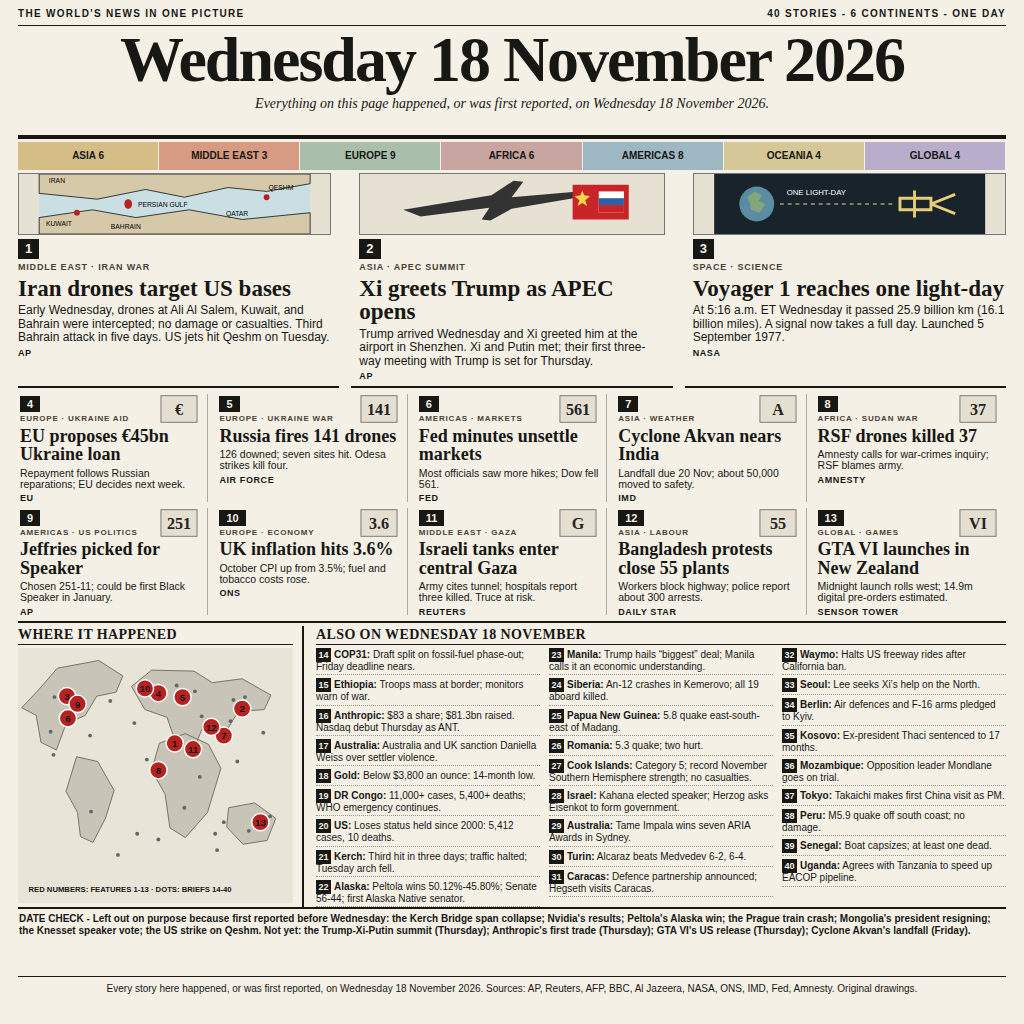
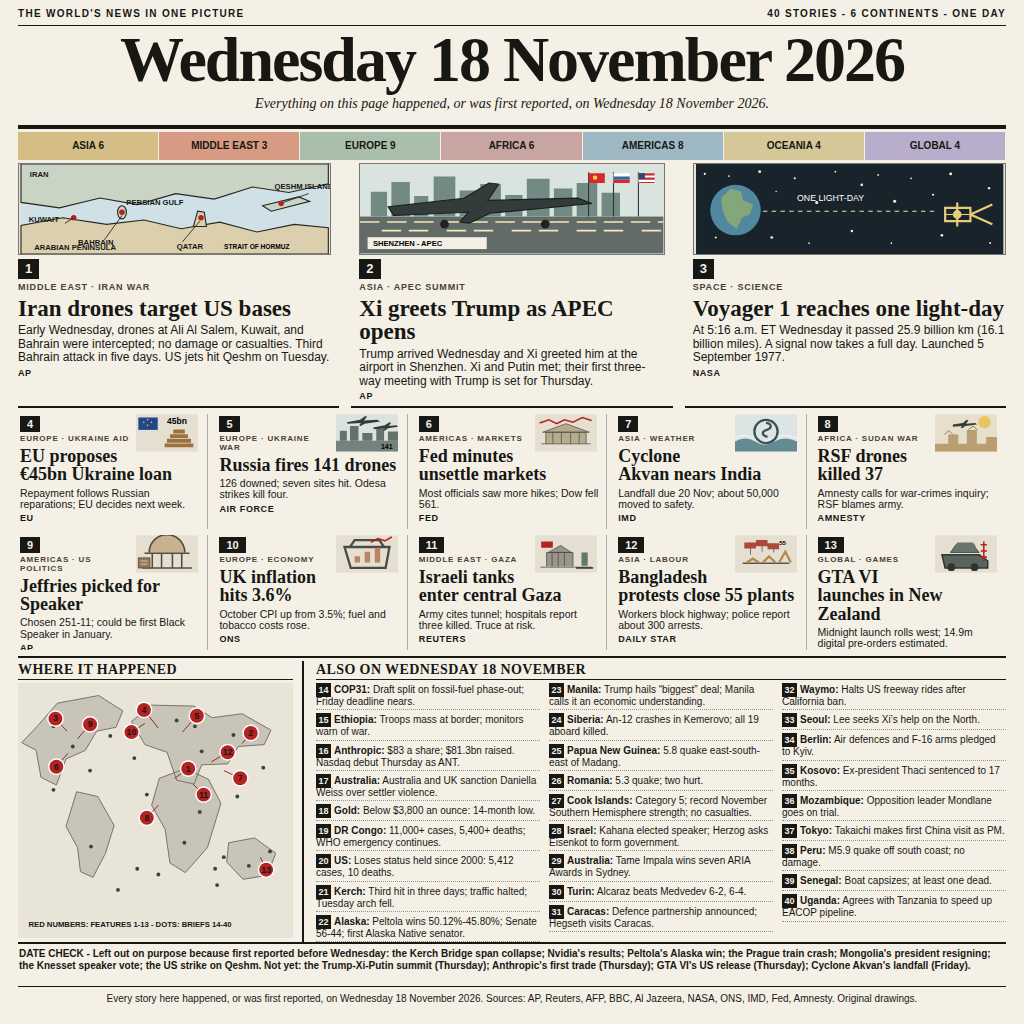
Polish v3 news image illustrations

diff --git a/frontpage.html b/frontpage.html
@@ -1,21 +1,32 @@
 <!doctype html><html lang="en"><head><meta charset="utf-8"><meta name="viewport" content="width=1024, initial-scale=1"><style>
-*{box-sizing:border-box}html,body{margin:0;width:1024px;height:1024px;overflow:hidden;background:#f4f0e6;color:#171714}body{padding:8px 18px;font-family:Arial,Helvetica,sans-serif}.page{height:1008px;display:grid;grid-template-rows:18px 110px 28px 215px 232px 278px 70px 35px;gap:3px}.topline{font-size:10px;font-weight:bold;letter-spacing:1.3px;display:flex;justify-content:space-between;border-bottom:1px solid #171714}.mast{text-align:center;border-bottom:4px solid #171714;position:relative;padding-top:1px}.mast h1{font: bold 64px/.95 Georgia,'Times New Roman',serif;letter-spacing:-2px;margin:0}.mast p{font:italic 14px/1.2 Georgia,serif;margin:5px 0}.counts{position:absolute;right:0;top:5px;font-size:10px;font-weight:bold}.bar{display:flex;font-size:10px;font-weight:bold;text-align:center;line-height:28px;color:#171714}.bar span{flex:1;border-right:1px solid #f4f0e6}.asia{background:#d5be86}.me{background:#d79a82}.eu{background:#a9bfab}.af{background:#c8a5a0}.am{background:#9db8c2}.oc{background:#d5c797}.gl{background:#b8adca}.leadrow{display:grid;grid-template-columns:repeat(3,1fr);gap:12px}.lead{border-bottom:2px solid #171714;padding:0 8px 5px;min-width:0;overflow:hidden}.lead:first-child{padding-left:0}.lead:last-child{padding-right:0}.ill{height:62px;width:100%;display:block;background:#e7e1d3;border:1px solid #777}.badge{display:inline-block;background:#171714;color:#f4f0e6;font:bold 13px/20px Arial;padding:0 7px;margin-top:4px}.tag{font:bold 9px/1.1 Arial;letter-spacing:.8px;margin:4px 0;color:#4b4035}.lead h2{font:bold 23px/1.02 Georgia,serif;margin:2px 0 4px}.lead p{font:12px/1.13 Arial;margin:0}.source{font:bold 9px/1 Arial;letter-spacing:.6px;margin-top:4px}.featuregrid{display:grid;grid-template-columns:repeat(5,1fr);grid-template-rows:1fr 1fr;gap:6px 9px;border-bottom:2px solid #171714;padding:3px 0 6px}.feature{position:relative;min-width:0;border-right:1px solid #aaa;padding:0 7px 0 2px;overflow:hidden}.feature:nth-child(5n){border-right:0}.feature .badge{font-size:11px;line-height:16px;margin:0}.feature svg{width:38px;height:30px;float:right;margin:0 2px 2px 3px}.feature .tag{font-size:8px;margin:3px 0}.feature h3{font:bold 18px/1.02 Georgia,serif;margin:2px 0 4px}.feature p{font:10.5px/1.08 Arial;margin:0}.bottom{display:grid;grid-template-columns:286px 1fr;gap:12px;min-height:0}.mapbox{border-right:2px solid #171714;padding-right:9px}.mapbox h2,.briefs h2{font:bold 14px/18px Georgia,serif;letter-spacing:.4px;margin:0 0 3px;border-bottom:1px solid #171714}.world{width:100%;height:255px;display:block;background:#e8e4d8}.briefs{min-width:0}.cols{display:grid;grid-template-columns:repeat(3,1fr);gap:9px}.briefcol{display:flex;flex-direction:column;gap:3px}.item{font:10px/1.03 Arial;border-bottom:1px dotted #9b9588;padding:0 0 2px;min-height:0}.item b{font:bold 10px/1 Arial}.item .n{display:inline-block;background:#171714;color:#f4f0e6;font:bold 9px/14px Arial;width:15px;text-align:center;margin-right:3px}.datecheck{font:bold 10px/1.2 Arial;border-top:2px solid #171714;border-bottom:1px solid #171714;padding:4px 1px}.footer{font:10px/1.2 Arial;text-align:center;padding-top:3px}.smallcaps{font-weight:bold;letter-spacing:.5px}.map text{font-family:Arial,sans-serif;font-weight:bold;fill:#171714}
+*{box-sizing:border-box}html,body{margin:0;width:1024px;height:1024px;overflow:hidden;background:#f4f0e6;color:#171714}body{padding:8px 18px;font-family:Arial,Helvetica,sans-serif}.page{height:1008px;display:grid;grid-template-rows:18px 100px 28px 245px 247px 278px 45px 25px;gap:3px}.topline{font-size:10px;font-weight:bold;letter-spacing:1.3px;display:flex;justify-content:space-between;border-bottom:1px solid #171714}.mast{text-align:center;border-bottom:4px solid #171714;position:relative;padding-top:1px}.mast h1{font: bold 64px/.95 Georgia,'Times New Roman',serif;letter-spacing:-2px;margin:0}.mast p{font:italic 14px/1.2 Georgia,serif;margin:5px 0}.counts{position:absolute;right:0;top:5px;font-size:10px;font-weight:bold}.bar{display:flex;font-size:10px;font-weight:bold;text-align:center;line-height:28px;color:#171714}.bar span{flex:1;border-right:1px solid #f4f0e6}.asia{background:#d5be86}.me{background:#d79a82}.eu{background:#a9bfab}.af{background:#c8a5a0}.am{background:#9db8c2}.oc{background:#d5c797}.gl{background:#b8adca}.leadrow{display:grid;grid-template-columns:repeat(3,1fr);gap:12px}.lead{border-bottom:2px solid #171714;padding:0 8px 5px;min-width:0;overflow:hidden}.lead:first-child{padding-left:0}.lead:last-child{padding-right:0}.ill{height:92px;width:100%;display:block;background:#e7e1d3;border:1px solid #777}.badge{display:inline-block;background:#171714;color:#f4f0e6;font:bold 13px/20px Arial;padding:0 7px;margin-top:4px}.tag{font:bold 9px/1.1 Arial;letter-spacing:.8px;margin:4px 0;color:#4b4035}.lead h2{font:bold 23px/1.02 Georgia,serif;margin:2px 0 4px}.lead p{font:12px/1.13 Arial;margin:0}.source{font:bold 9px/1 Arial;letter-spacing:.6px;margin-top:4px}.featuregrid{display:grid;grid-template-columns:repeat(5,1fr);grid-template-rows:1fr 1fr;gap:6px 9px;border-bottom:2px solid #171714;padding:3px 0 6px}.feature{position:relative;min-width:0;border-right:1px solid #aaa;padding:0 7px 0 2px;overflow:hidden}.feature:nth-child(5n){border-right:0}.feature .badge{font-size:11px;line-height:16px;margin:0}.feature svg{width:62px;height:38px;float:right;margin:0 2px 2px 3px}.feature .tag{font-size:8px;margin:3px 0}.feature h3{font:bold 18px/1.02 Georgia,serif;margin:2px 0 4px}.feature p{font:10.5px/1.08 Arial;margin:0}.bottom{display:grid;grid-template-columns:286px 1fr;gap:12px;min-height:0}.mapbox{border-right:2px solid #171714;padding-right:9px}.mapbox h2,.briefs h2{font:bold 14px/18px Georgia,serif;letter-spacing:.4px;margin:0 0 3px;border-bottom:1px solid #171714}.world{width:100%;height:255px;display:block;background:#e8e4d8}.briefs{min-width:0}.cols{display:grid;grid-template-columns:repeat(3,1fr);gap:9px}.briefcol{display:flex;flex-direction:column;gap:3px}.item{font:10px/1.03 Arial;border-bottom:1px dotted #9b9588;padding:0 0 2px;min-height:0}.item b{font:bold 10px/1 Arial}.item .n{display:inline-block;background:#171714;color:#f4f0e6;font:bold 9px/14px Arial;width:15px;text-align:center;margin-right:3px}.datecheck{font:bold 10px/1.2 Arial;border-top:2px solid #171714;border-bottom:1px solid #171714;padding:4px 1px}.footer{font:10px/1.2 Arial;text-align:center;padding-top:3px}.smallcaps{font-weight:bold;letter-spacing:.5px}.map text{font-family:Arial,sans-serif;font-weight:bold;fill:#171714}
 </style></head><body><main class="page">
 <div class="topline"><span>THE WORLD'S NEWS IN ONE PICTURE</span><span>40 STORIES - 6 CONTINENTS - ONE DAY</span></div>
 <header class="mast"><h1>Wednesday 18 November 2026</h1><p>Everything on this page happened, or was first reported, on Wednesday 18 November 2026.</p></header>
 <div class="bar"><span class="asia">ASIA 6</span><span class="me">MIDDLE EAST 3</span><span class="eu">EUROPE 9</span><span class="af">AFRICA 6</span><span class="am">AMERICAS 8</span><span class="oc">OCEANIA 4</span><span class="gl">GLOBAL 4</span></div>
 <section class="leadrow">
-<article class="lead"><svg class="ill" viewBox="0 0 280 62" aria-label="Persian Gulf diagram"><rect width="280" height="62" fill="#c9dfe4"/><path d="M0 0h280v10l-45 8-40-4-45 10-40-8-50 10L0 20zm0 62V45l55-8 45 8 55-8 55 10 70-7v22z" fill="#d5c9aa" stroke="#333"/><ellipse cx="92" cy="31" rx="4" ry="5" fill="#b52222"/><circle cx="39" cy="40" r="3" fill="#b52222"/><circle cx="235" cy="24" r="3" fill="#b52222"/><text x="10" y="9" font-size="7">IRAN</text><text x="102" y="34" font-size="7">PERSIAN GULF</text><text x="7" y="54" font-size="7">KUWAIT</text><text x="74" y="57" font-size="7">BAHRAIN</text><text x="193" y="43" font-size="7">QATAR</text><text x="237" y="17" font-size="7">QESHM</text></svg><span class="badge">1</span><div class="tag">MIDDLE EAST · IRAN WAR</div><h2>Iran drones target US bases</h2><p>Early Wednesday, drones at Ali Al Salem, Kuwait, and Bahrain were intercepted; no damage or casualties. Third Bahrain attack in five days. US jets hit Qeshm on Tuesday.</p><div class="source">AP</div></article>
-<article class="lead"><svg class="ill" viewBox="0 0 280 62" aria-label="Plane and flags"><rect width="280" height="62" fill="#e7e1d3"/><path d="M28 37l91-15 23-15 10 1-12 16 69-6 13 4-82 14-22 12-9-1 8-12-71 9z" fill="#333"/><path d="M203 11h58v36h-58z" fill="#c92528"/><path d="M213 17l2 5 6 1-5 4 2 6-5-3-5 3 2-6-5-4 6-1z" fill="#f4d54c"/><path d="M230 18h26v22h-26z" fill="#fff"/><path d="M230 25h26v7h-26z" fill="#2861a5"/><path d="M230 32h26v8h-26z" fill="#c92528"/></svg><span class="badge">2</span><div class="tag">ASIA · APEC SUMMIT</div><h2>Xi greets Trump as APEC opens</h2><p>Trump arrived Wednesday and Xi greeted him at the airport in Shenzhen. Xi and Putin met; their first three-way meeting with Trump is set for Thursday.</p><div class="source">AP</div></article>
-<article class="lead"><svg class="ill" viewBox="0 0 280 62" aria-label="Earth and Voyager"><rect width="280" height="62" fill="#18232c"/><circle cx="44" cy="31" r="18" fill="#5b8ca2"/><path d="M34 24l8-6 7 4-3 6 7 3-6 9-9-3-1-7z" fill="#83a77b"/><path d="M68 31h120" stroke="#eee0ae" stroke-dasharray="4 4"/><path d="M192 25h32v12h-32zm15-8v28m17-14 25-10m-25 10 25 10" fill="none" stroke="#e7cc79" stroke-width="3"/><text x="75" y="22" font-size="8" fill="#fff">ONE LIGHT-DAY</text></svg><span class="badge">3</span><div class="tag">SPACE · SCIENCE</div><h2>Voyager 1 reaches one light-day</h2><p>At 5:16 a.m. ET Wednesday it passed 25.9 billion km (16.1 billion miles). A signal now takes a full day. Launched 5 September 1977.</p><div class="source">NASA</div></article>
+<article class="lead"><svg class="ill" viewBox="0 0 280 82" aria-label="Persian Gulf map"><rect width="280" height="82" fill="#cfe0e6"/><path d="M0 0H280V18L244 26 211 21 176 32 141 27 106 37 72 31 35 40 0 35Z" fill="#c9d4c5" stroke="#252622"/><path d="M0 82V56L38 49 78 55 112 51 146 59 181 53 215 62 249 55 280 58V82Z" fill="#dccfae" stroke="#252622"/><path d="M157 57l4-14 6 1 2 13z" fill="#dccfae" stroke="#252622"/><path d="M220 38l33-8 10 4-35 9z" fill="#c9d4c5" stroke="#252622"/><ellipse cx="92" cy="44" rx="4" ry="6" fill="#c9d4c5" stroke="#252622"/><g fill="#b52020"><circle cx="48" cy="49" r="2.5"/><circle cx="92" cy="44" r="2.5"/><circle cx="164" cy="49" r="2.5"/><circle cx="237" cy="36" r="2.5"/></g><g fill="none" stroke="#252622" stroke-width=".8"><path d="M40 54L48 49M76 69L92 47M147 71L163 52M262 27L239 35"/></g><g font-size="7" font-weight="bold" fill="#171714"><text x="8" y="12">IRAN</text><text x="96" y="37">PERSIAN GULF</text><text x="7" y="53">KUWAIT</text><text x="52" y="74">BAHRAIN</text><text x="142" y="77">QATAR</text><text x="231" y="23">QESHM ISLAND</text><text x="12" y="78">ARABIAN PENINSULA</text></g><text x="185" y="77" font-size="6" font-weight="bold">STRAIT OF HORMUZ</text></svg><span class="badge">1</span><div class="tag">MIDDLE EAST · IRAN WAR</div><h2>Iran drones target US bases</h2><p>Early Wednesday, drones at Ali Al Salem, Kuwait, and Bahrain were intercepted; no damage or casualties. Third Bahrain attack in five days. US jets hit Qeshm on Tuesday.</p><div class="source">AP</div></article>
+<article class="lead"><svg class="ill" viewBox="0 0 280 82" aria-label="Shenzhen airport scene"><rect width="280" height="82" fill="#d9e4df"/><rect y="48" width="280" height="34" fill="#626b68"/><path d="M0 53h280M20 61h44m16 0h44m16 0h44m16 0h44m16 0h44" stroke="#f4e8b7" stroke-width="1.5" stroke-dasharray="18 7"/><g fill="#728984"><path d="M10 48V25h15v23zm19 0V16h17v32zm21 0V29h13v19zm18 0V11h20v37zm24 0V24h15v24zm19 0V18h19v30zm23 0V28h16v20zm20 0V13h21v35zm25 0V22h17v26zm21 0V17h19v31zm23 0V26h17v22z"/></g><g stroke="#333" stroke-width="1"><path d="M211 48V7m23 41V7m23 41V7"/></g><g><rect x="211" y="8" width="15" height="9" fill="#d8272f"/><circle cx="217" cy="12" r="2" fill="#f5d74a"/><rect x="234" y="8" width="15" height="9" fill="#fff"/><rect x="234" y="11" width="15" height="3" fill="#3266a5"/><rect x="234" y="14" width="15" height="3" fill="#d8272f"/><rect x="257" y="8" width="15" height="9" fill="#fff"/><path d="M257 8h15v2h-15zm0 4h15v2h-15zm0 4h15v1h-15" fill="#bf3035"/><path d="M257 8h6v5h-6z" fill="#294a77"/></g><path d="M26 39l70-8 23-14 9 1-10 15 83-2 13 5-94 9-19 9-9-1 8-9-69 3z" fill="#343b3b" stroke="#172020"/><circle cx="78" cy="55" r="4" fill="#222"/><circle cx="171" cy="55" r="4" fill="#222"/><rect x="7" y="67" width="110" height="11" fill="#f4f0e6"/><text x="12" y="75" font-size="7" font-weight="bold">SHENZHEN - APEC</text></svg><span class="badge">2</span><div class="tag">ASIA · APEC SUMMIT</div><h2>Xi greets Trump as APEC opens</h2><p>Trump arrived Wednesday and Xi greeted him at the airport in Shenzhen. Xi and Putin met; their first three-way meeting with Trump is set for Thursday.</p><div class="source">AP</div></article>
+<article class="lead"><svg class="ill" viewBox="0 0 280 82" aria-label="Voyager probe and Earth"><rect width="280" height="82" fill="#18232c"/><g fill="#fff1cb"><circle cx="8" cy="9" r="1"/><circle cx="21" cy="28" r="1.5"/><circle cx="30" cy="11" r=".8"/><circle cx="58" cy="7" r="1.3"/><circle cx="73" cy="25" r=".7"/><circle cx="90" cy="13" r="1"/><circle cx="110" cy="35" r="1.4"/><circle cx="127" cy="7" r=".8"/><circle cx="151" cy="19" r="1.2"/><circle cx="166" cy="10" r=".8"/><circle cx="181" cy="34" r="1.4"/><circle cx="196" cy="13" r=".8"/><circle cx="216" cy="28" r="1"/><circle cx="232" cy="9" r="1.3"/><circle cx="267" cy="22" r="1.1"/><circle cx="18" cy="67" r=".9"/><circle cx="69" cy="67" r="1.2"/><circle cx="103" cy="72" r=".8"/><circle cx="142" cy="61" r="1.1"/><circle cx="178" cy="72" r=".8"/><circle cx="224" cy="65" r="1.2"/><circle cx="268" cy="72" r=".9"/></g><circle cx="36" cy="42" r="23" fill="#5287a0"/><path d="M23 31l9-9 9 3 2 8 9 4-3 9-7 3-5 10-8-6-5-11z" fill="#83a77b"/><path d="M61 43H219" stroke="#eee0ae" stroke-dasharray="4 4"/><text x="92" y="34" font-size="8" fill="#fff">ONE LIGHT-DAY</text><g transform="translate(227 35)" stroke="#e7cc79" fill="none" stroke-width="2"><path d="M0 5h23v12H0zM11 0v22M23 11l20-9m-20 9 20 9"/><path d="M0 11h23" stroke-width="1"/><circle cx="11" cy="11" r="3" fill="#e7cc79"/></g></svg><span class="badge">3</span><div class="tag">SPACE · SCIENCE</div><h2>Voyager 1 reaches one light-day</h2><p>At 5:16 a.m. ET Wednesday it passed 25.9 billion km (16.1 billion miles). A signal now takes a full day. Launched 5 September 1977.</p><div class="source">NASA</div></article>
 </section>
 <section class="featuregrid" id="features"></section>
-<section class="bottom"><div class="mapbox"><h2>WHERE IT HAPPENED</h2><svg class="world map" viewBox="0 0 280 265" aria-label="World map with numbered feature pins"><rect width="280" height="265" fill="#e8e4d8"/><g fill="#c8c4b7" stroke="#756f64" stroke-width="1"><path d="M18 44l20-23 43-8 25 16-7 17-20 4-12 20-20 9-10 27-16-8-5-28-15-8zM58 113l22 5 17 30-9 29-13 25-13-6-3-25-12-22zM115 40l21-17 44 1 19 12 31-4 30 17-7 15-27 2-11 18-27 1-8 20-18-4-10-29-23-8zM144 99l27-10 24 11 13 25-14 46-23 26-16-10-5-35-14-25zM216 166l27-5 22 16-9 23-25 4-17-18z"/></g><g fill="#5b6b63"><circle cx="35" cy="51" r="2"/><circle cx="54" cy="66" r="2"/><circle cx="72" cy="91" r="2"/><circle cx="188" cy="71" r="2"/><circle cx="218" cy="76" r="2"/><circle cx="186" cy="134" r="2"/><circle cx="170" cy="166" r="2"/><circle cx="233" cy="51" r="2"/><circle cx="237" cy="190" r="2"/><circle cx="118" cy="78" r="2"/><circle cx="131" cy="116" r="2"/><circle cx="73" cy="170" r="2"/><circle cx="202" cy="193" r="2"/><circle cx="211" cy="181" r="2"/><circle cx="93" cy="55" r="2"/><circle cx="162" cy="39" r="2"/><circle cx="225" cy="118" r="2"/><circle cx="121" cy="193" r="2"/><circle cx="259" cy="175" r="2"/><circle cx="34" cy="111" r="2"/><circle cx="181" cy="45" r="2"/><circle cx="101" cy="215" r="2"/><circle cx="221" cy="54" r="2"/><circle cx="143" cy="199" r="2"/><circle cx="31" cy="87" r="2"/><circle cx="204" cy="210" r="2"/><circle cx="252" cy="88" r="2"/></g><g font-size="10" text-anchor="middle"><g fill="#b52222" stroke="#fff" stroke-width="1.5"><circle cx="160" cy="99" r="9"/><circle cx="230" cy="63" r="9"/><circle cx="48" cy="50" r="9"/><circle cx="143" cy="47" r="9"/><circle cx="168" cy="51" r="9"/><circle cx="49" cy="73" r="9"/><circle cx="211" cy="91" r="9"/><circle cx="143" cy="127" r="9"/><circle cx="59" cy="58" r="9"/><circle cx="129" cy="42" r="9"/><circle cx="179" cy="105" r="9"/><circle cx="198" cy="82" r="9"/><circle cx="249" cy="181" r="9"/></g><g fill="#fff" font-weight="bold"><text x="160" y="103">1</text><text x="230" y="67">2</text><text x="48" y="54">3</text><text x="143" y="51">4</text><text x="168" y="55">5</text><text x="49" y="77">6</text><text x="211" y="95">7</text><text x="143" y="131">8</text><text x="59" y="62">9</text><text x="129" y="46">10</text><text x="179" y="109">11</text><text x="198" y="86">12</text><text x="249" y="185">13</text></g></g><text x="8" y="254" font-size="8">RED NUMBERS: FEATURES 1-13 · DOTS: BRIEFS 14-40</text></svg></div><div class="briefs"><h2>ALSO ON WEDNESDAY 18 NOVEMBER</h2><div class="cols" id="briefcols"></div></div></section>
+<section class="bottom"><div class="mapbox"><h2>WHERE IT HAPPENED</h2><svg class="world map" viewBox="0 0 280 265" aria-label="World map with numbered feature pins"><rect width="280" height="265" fill="#e8e4d8"/><g fill="#c8c4b7" stroke="#756f64" stroke-width="1"><path d="M18 44l20-23 43-8 25 16-7 17-20 4-12 20-20 9-10 27-16-8-5-28-15-8zM58 113l22 5 17 30-9 29-13 25-13-6-3-25-12-22zM115 40l21-17 44 1 19 12 31-4 30 17-7 15-27 2-11 18-27 1-8 20-18-4-10-29-23-8zM144 99l27-10 24 11 13 25-14 46-23 26-16-10-5-35-14-25zM216 166l27-5 22 16-9 23-25 4-17-18z"/></g><g fill="#37433d"><circle cx="34" cy="45" r="2"/><circle cx="54" cy="66" r="2"/><circle cx="72" cy="91" r="2"/><circle cx="188" cy="71" r="2"/><circle cx="218" cy="76" r="2"/><circle cx="186" cy="134" r="2"/><circle cx="170" cy="166" r="2"/><circle cx="233" cy="51" r="2"/><circle cx="237" cy="190" r="2"/><circle cx="118" cy="78" r="2"/><circle cx="131" cy="116" r="2"/><circle cx="73" cy="170" r="2"/><circle cx="202" cy="193" r="2"/><circle cx="211" cy="181" r="2"/><circle cx="93" cy="55" r="2"/><circle cx="162" cy="39" r="2"/><circle cx="225" cy="118" r="2"/><circle cx="121" cy="193" r="2"/><circle cx="259" cy="175" r="2"/><circle cx="34" cy="111" r="2"/><circle cx="181" cy="45" r="2"/><circle cx="101" cy="215" r="2"/><circle cx="221" cy="54" r="2"/><circle cx="143" cy="199" r="2"/><circle cx="31" cy="87" r="2"/><circle cx="204" cy="210" r="2"/><circle cx="252" cy="88" r="2"/></g><g stroke="#8e2623" stroke-width="1" fill="none"><path d="M160 99L174 89M230 63L239 52M48 50L36 37M143 47L128 28M168 51L183 34M49 73L37 87M211 91L228 99M143 127L131 140M59 58L72 43M129 42L115 51M179 105L190 116M198 82L215 72M249 181L255 194"/></g><g fill="#b52222" stroke="#fff" stroke-width="1.5" text-anchor="middle" font-size="9" font-weight="bold"><g><circle cx="174" cy="89" r="8"/><text x="174" y="92" fill="#fff" stroke="none">1</text></g><g><circle cx="239" cy="52" r="8"/><text x="239" y="55" fill="#fff" stroke="none">2</text></g><g><circle cx="36" cy="37" r="8"/><text x="36" y="40" fill="#fff" stroke="none">3</text></g><g><circle cx="128" cy="28" r="8"/><text x="128" y="31" fill="#fff" stroke="none">4</text></g><g><circle cx="183" cy="34" r="8"/><text x="183" y="37" fill="#fff" stroke="none">5</text></g><g><circle cx="37" cy="87" r="8"/><text x="37" y="90" fill="#fff" stroke="none">6</text></g><g><circle cx="228" cy="99" r="8"/><text x="228" y="102" fill="#fff" stroke="none">7</text></g><g><circle cx="131" cy="140" r="8"/><text x="131" y="143" fill="#fff" stroke="none">8</text></g><g><circle cx="72" cy="43" r="8"/><text x="72" y="46" fill="#fff" stroke="none">9</text></g><g><circle cx="115" cy="51" r="8"/><text x="115" y="54" fill="#fff" stroke="none">10</text></g><g><circle cx="190" cy="116" r="8"/><text x="190" y="119" fill="#fff" stroke="none">11</text></g><g><circle cx="215" cy="72" r="8"/><text x="215" y="75" fill="#fff" stroke="none">12</text></g><g><circle cx="255" cy="194" r="8"/><text x="255" y="197" fill="#fff" stroke="none">13</text></g></g><text x="8" y="254" font-size="8">RED NUMBERS: FEATURES 1-13 - DOTS: BRIEFS 14-40</text></svg></div><div class="briefs"><h2>ALSO ON WEDNESDAY 18 NOVEMBER</h2><div class="cols" id="briefcols"></div></div></section>
 <div class="datecheck">DATE CHECK - Left out on purpose because first reported before Wednesday: the Kerch Bridge span collapse; Nvidia's results; Peltola's Alaska win; the Prague train crash; Mongolia's president resigning; the Knesset speaker vote; the US strike on Qeshm. Not yet: the Trump-Xi-Putin summit (Thursday); Anthropic's first trade (Thursday); GTA VI's US release (Thursday); Cyclone Akvan's landfall (Friday).</div>
 <footer class="footer">Every story here happened, or was first reported, on Wednesday 18 November 2026. Sources: AP, Reuters, AFP, BBC, Al Jazeera, NASA, ONS, IMD, Fed, Amnesty. Original drawings.</footer>
 </main><script>
 const features=[
 ['EUROPE · UKRAINE AID','EU proposes €45bn Ukraine loan','Repayment follows Russian reparations; EU decides next week.','EU'],['EUROPE · UKRAINE WAR','Russia fires 141 drones','126 downed; seven sites hit. Odesa strikes kill four.','AIR FORCE'],['AMERICAS · MARKETS','Fed minutes unsettle markets','Most officials saw more hikes; Dow fell 561.','FED'],['ASIA · WEATHER','Cyclone Akvan nears India','Landfall due 20 Nov; about 50,000 moved to safety.','IMD'],['AFRICA · SUDAN WAR','RSF drones killed 37','Amnesty calls for war-crimes inquiry; RSF blames army.','AMNESTY'],['AMERICAS · US POLITICS','Jeffries picked for Speaker','Chosen 251-11; could be first Black Speaker in January.','AP'],['EUROPE · ECONOMY','UK inflation hits 3.6%','October CPI up from 3.5%; fuel and tobacco costs rose.','ONS'],['MIDDLE EAST · GAZA','Israeli tanks enter central Gaza','Army cites tunnel; hospitals report three killed. Truce at risk.','REUTERS'],['ASIA · LABOUR','Bangladesh protests close 55 plants','Workers block highway; police report about 300 arrests.','DAILY STAR'],['GLOBAL · GAMES','GTA VI launches in New Zealand','Midnight launch rolls west; 14.9m digital pre-orders estimated.','SENSOR TOWER']];
-const icons=['€','141','561','A','37','251','3.6','G','55','VI'];document.getElementById('features').innerHTML=features.map((f,i)=>`<article class="feature"><span class="badge">${i+4}</span><svg viewBox="0 0 40 30" aria-hidden="true"><rect x="1" y="1" width="38" height="28" fill="#e5dfd1" stroke="#777"/><text x="20" y="21" text-anchor="middle" font-family="Georgia" font-weight="bold" font-size="17" fill="#24231f">${icons[i]}</text></svg><div class="tag">${f[0]}</div><h3>${f[1]}</h3><p>${f[2]}</p><div class="source">${f[3]}</div></article>`).join('');
+const scenes=[
+`<rect width="80" height="48" fill="#e5dfd1"/><rect x="3" y="4" width="25" height="16" fill="#21468b"/><g fill="#f5d84d"><circle cx="15" cy="7" r="1"/><circle cx="20" cy="10" r="1"/><circle cx="15" cy="14" r="1"/><circle cx="10" cy="10" r="1"/></g><path d="M37 40h37M40 34h31M44 28h23M48 22h15" stroke="#9b713e" stroke-width="5"/><text x="40" y="13" font-size="11" font-weight="bold">45bn</text>`,
+`<rect width="80" height="48" fill="#dce3df"/><path d="M0 34h80v14H0" fill="#75817d"/><path d="M5 34V21h9v13m4 0V15h11v19m5 0V24h13v10m5 0V18h10v16m5 0V22h13v12" fill="#63736c"/><g fill="#313b3a"><path d="M14 10l17-3 7-5 2 1-4 5 17-1 4 2-20 3-5 3-2-1 2-3-17 1z"/><path d="M48 17l15-3 6-4 2 1-3 4 10-1 2 2-13 2-4 3-2-1 2-2-14 1z"/></g><text x="58" y="45" font-size="9" font-weight="bold">141</text>`,
+`<rect width="80" height="48" fill="#e5dfd1"/><path d="M8 38h64M14 38V23h52v15M10 23h60L40 12zM23 23v15m11-15v15m12-15v15m11-15v15" fill="#b7ab8f" stroke="#514f48"/><path d="M6 11l12-4 10 5 10-5 11 3 12-6 12 4" fill="none" stroke="#b52222" stroke-width="2"/>`,
+`<rect width="80" height="48" fill="#dce5e3"/><path d="M0 35q14-8 26 0t25 0 29 0v13H0" fill="#638b91"/><path d="M0 31q12-8 24 0t24 0 32 0" fill="none" stroke="#fff"/><path d="M40 7a15 15 0 1 1 0 30 15 15 0 1 1 0-30m0 4c8 1 8 7 1 9s-7 7 1 9" fill="none" stroke="#3d5155" stroke-width="3"/>`,
+`<rect width="80" height="48" fill="#e7dfcc"/><circle cx="64" cy="10" r="8" fill="#e9c75f"/><path d="M0 38h17V26h13v12h11V20h13v18h12V29h14v19H0" fill="#b99e72"/><path d="M12 26l6-5 5 5m20-6 6-5 6 5" fill="none" stroke="#74624b"/><path d="M23 13l13-2 5-4 2 1-3 4 12-1 2 2-15 2-4 3-2-1 2-2-12 1z" fill="#343b3b"/>`,
+`<rect width="80" height="48" fill="#e5dfd1"/><path d="M17 22a23 23 0 0 1 46 0" fill="#c7b28d" stroke="#514b43" stroke-width="2"/><path d="M11 23h58M21 23v19m12-19v19m14-19v19m12-19v19M8 42h64" stroke="#514b43" stroke-width="2"/><rect x="3" y="29" width="15" height="13" fill="#9e7551" stroke="#514b43"/><path d="M6 33h9m-9 4h9" stroke="#e5dfd1"/>`,
+`<rect width="80" height="48" fill="#e5dfd1"/><path d="M11 15h58l-5 27H19z" fill="none" stroke="#494b46" stroke-width="3"/><path d="M18 15l6-9h32l6 9" fill="none" stroke="#494b46" stroke-width="3"/><path d="M24 35V27h7v8m6 0V21h7v14m6 0V16h7v19" fill="#ba8560"/><path d="M45 9l9-5 9 3 9-5" fill="none" stroke="#b52222" stroke-width="2"/>`,
+`<rect width="80" height="48" fill="#e5dfd1"/><path d="M7 41h66M15 40V22h34v18m-32-18h30l-14-9zm5 0v18m8-18v18m8-18v18" fill="#99958b" stroke="#494b46"/><path d="M53 39h7V22h8v17" fill="#65766d"/><path d="M53 42h22" stroke="#333" stroke-width="2"/><path d="M8 8h15v8H8zm5 8v8" fill="#b52222"/>`,
+`<rect width="80" height="48" fill="#e5dfd1"/><path d="M10 36h60" stroke="#555" stroke-width="2"/><path d="M15 35l8-5 8 5m5 0 8-8 8 8m5 0 8-14 7 14" fill="none" stroke="#b98a46" stroke-width="3"/><path d="M20 25V9m15 12V6m15 16V10" stroke="#594f42"/><path d="M12 9h15v8H12zm15-3h15v8H27zm15 4h15v8H42z" fill="#ad493b"/><text x="57" y="13" font-size="8" font-weight="bold">55</text>`,
+`<rect width="80" height="48" fill="#e5dfd1"/><path d="M9 25h48l11 8v9H13z" fill="#59645c" stroke="#303732" stroke-width="2"/><path d="M20 22l7-10h22l8 10z" fill="#69756a" stroke="#303732"/><path d="M25 14l4-5h20l4 5" fill="#69756a"/><circle cx="21" cy="41" r="5" fill="#333"/><circle cx="51" cy="41" r="5" fill="#333"/><path d="M63 8v25m-4-21h8m-8 8h8m-8 8h8" stroke="#b52222" stroke-width="2"/>`
+];document.getElementById('features').innerHTML=features.map((f,i)=>`<article class="feature"><span class="badge">${i+4}</span><svg viewBox="0 0 80 48" aria-hidden="true">${scenes[i]}</svg><div class="tag">${f[0]}</div><h3>${f[1]}</h3><p>${f[2]}</p><div class="source">${f[3]}</div></article>`).join('');
 const briefs=[['COP31','Draft split on fossil-fuel phase-out; Friday deadline nears.'],['Ethiopia','Troops mass at border; monitors warn of war.'],['Anthropic','$83 a share; $81.3bn raised. Nasdaq debut Thursday as ANT.'],['Australia','Australia and UK sanction Daniella Weiss over settler violence.'],['Gold','Below $3,800 an ounce: 14-month low.'],['DR Congo','11,000+ cases, 5,400+ deaths; WHO emergency continues.'],['US','Loses status held since 2000: 5,412 cases, 10 deaths.'],['Kerch','Third hit in three days; traffic halted; Tuesday arch fell.'],['Alaska','Peltola wins 50.12%-45.80%; Senate 56-44; first Alaska Native senator.'],['Manila','Trump hails “biggest” deal; Manila calls it an economic understanding.'],['Siberia','An-12 crashes in Kemerovo; all 19 aboard killed.'],['Papua New Guinea','5.8 quake east-south-east of Madang.'],['Romania','5.3 quake; two hurt.'],['Cook Islands','Category 5; record November Southern Hemisphere strength; no casualties.'],['Israel','Kahana elected speaker; Herzog asks Eisenkot to form government.'],['Australia','Tame Impala wins seven ARIA Awards in Sydney.'],['Turin','Alcaraz beats Medvedev 6-2, 6-4.'],['Caracas','Defence partnership announced; Hegseth visits Caracas.'],['Waymo','Halts US freeway rides after California ban.'],['Seoul','Lee seeks Xi’s help on the North.'],['Berlin','Air defences and F-16 arms pledged to Kyiv.'],['Kosovo','Ex-president Thaci sentenced to 17 months.'],['Mozambique','Opposition leader Mondlane goes on trial.'],['Tokyo','Takaichi makes first China visit as PM.'],['Peru','M5.9 quake off south coast; no damage.'],['Senegal','Boat capsizes; at least one dead.'],['Uganda','Agrees with Tanzania to speed up EACOP pipeline.']];const cols=[[],[],[]];briefs.forEach((b,i)=>cols[Math.floor(i/9)].push([i+14,b]));document.getElementById('briefcols').innerHTML=cols.map(c=>`<div class="briefcol">${c.map(([n,b])=>`<div class="item"><span class="n">${n}</span><b>${b[0]}:</b> ${b[1]}</div>`).join('')}</div>`).join('');
 </script></body></html>
